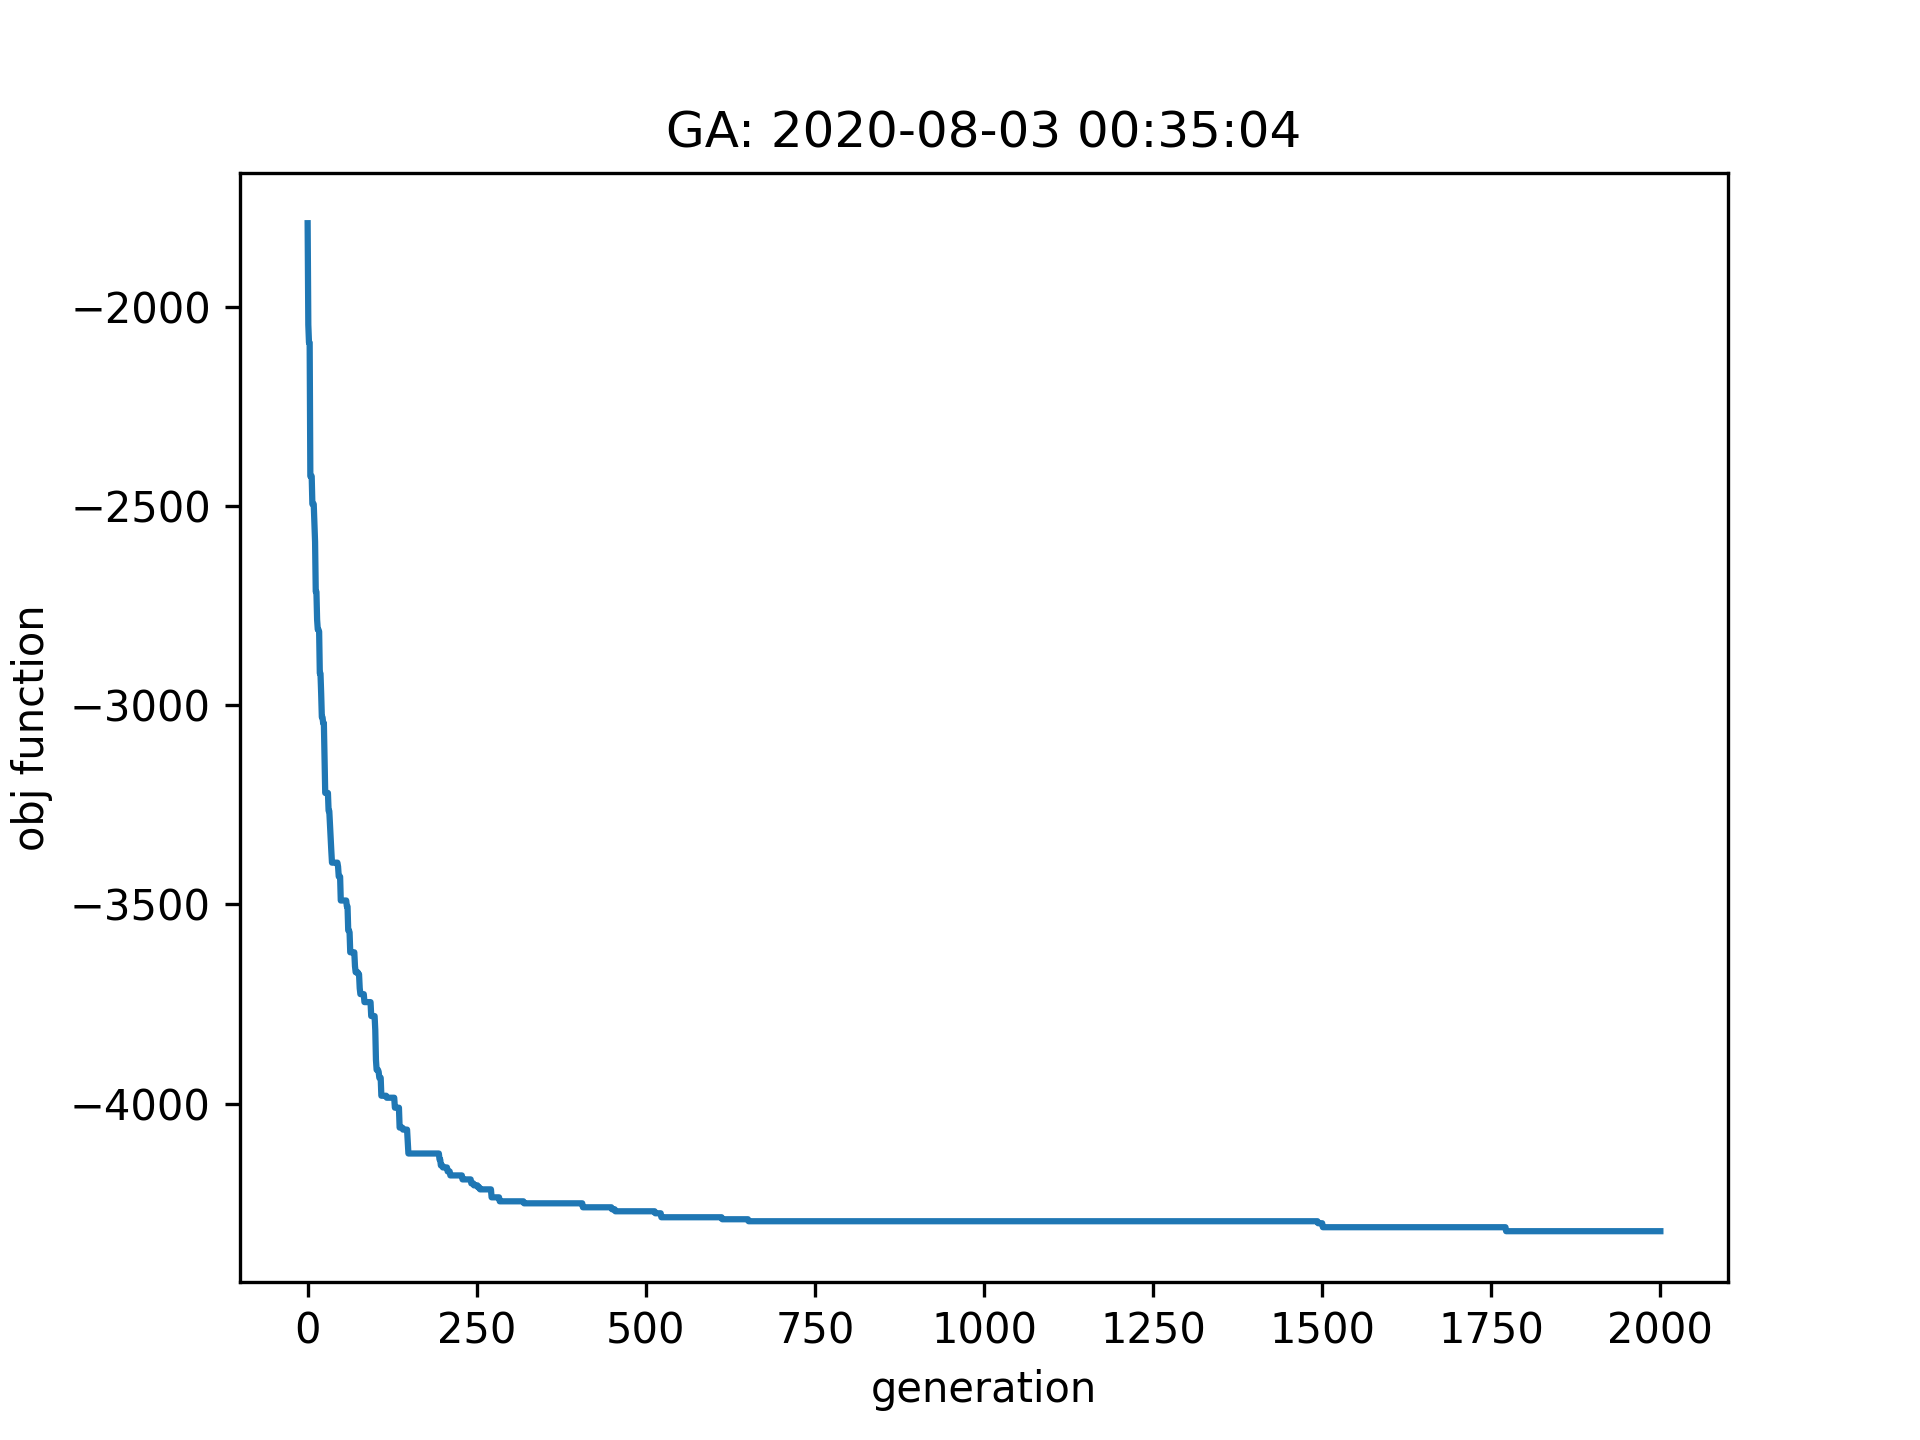
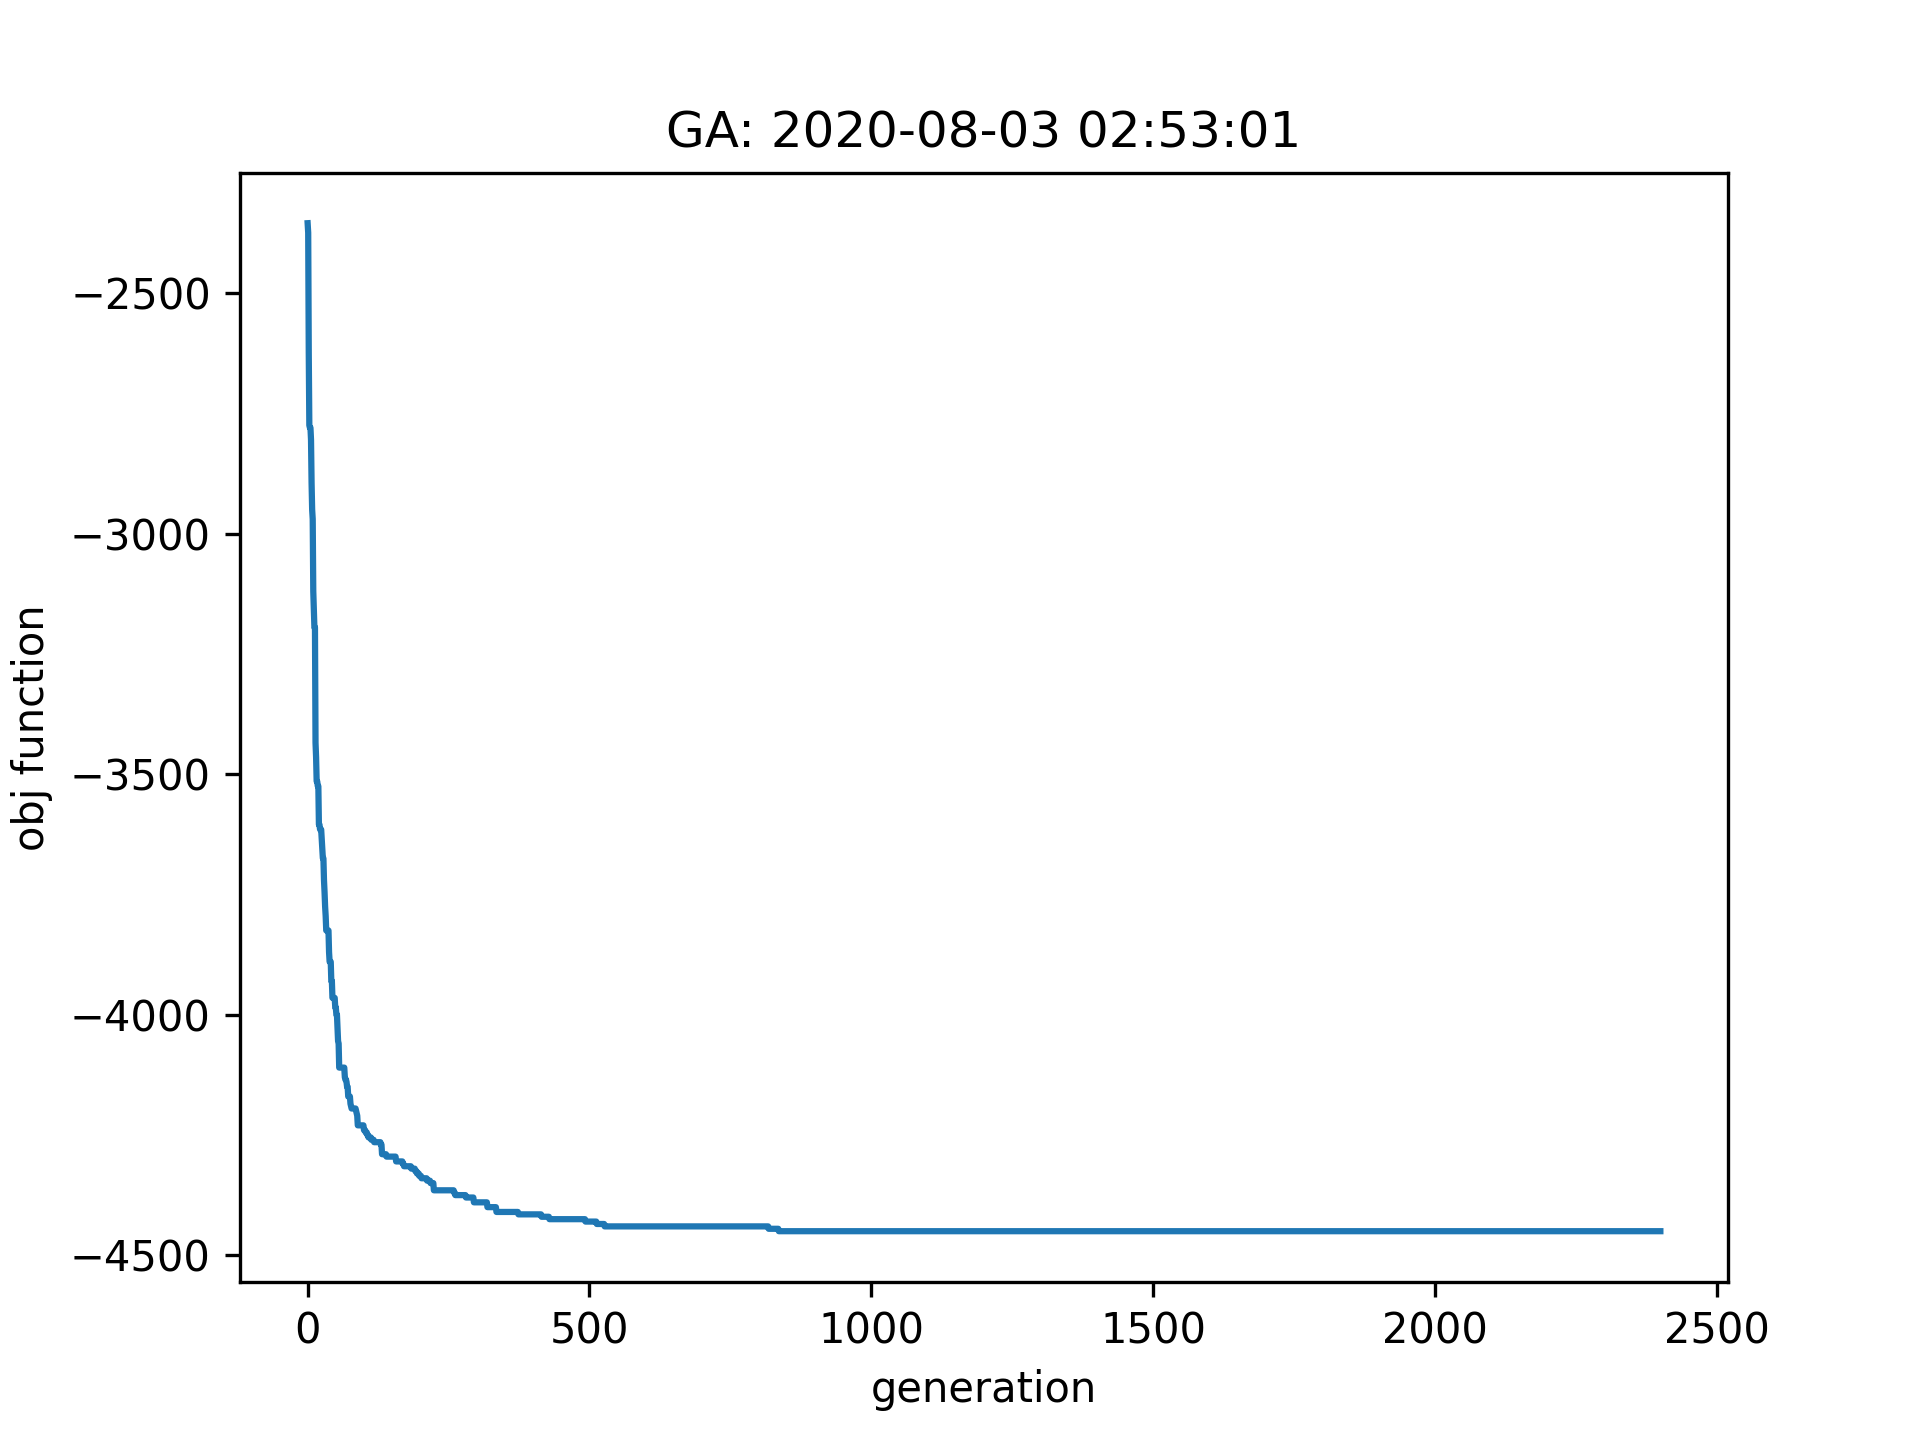
Added projectID conversion function

diff --git a/src/run_ga.py b/src/run_ga.py
@@ -9,13 +9,15 @@ import time # time the algorithm
 import pandas as pd # loads csv
 from score import points_ch, points_gs
 import load_csv as lc
+from convert_id import fix
 
 # defs
 def objf(soln): # objective function
+    soln = fix(soln)
     y = 0
     y = points_ch(soln) # choices
     y += points_gs(soln) # group size
-
+    
     # timing
     # if time.time()-t0 > max_run_time:
     #     print('stop me') # TODO break here
@@ -33,8 +35,9 @@ num_choices = lc.num_choices
 max_run_time = lc.max_run_time
 
 # hyperparameters
-num_iterations = 2000
-var_bound=np.array([[1,num_projects]]*num_students) # solution shape
+num_iterations = 2400
+#lc.projectIDs  = [1, 2, 4] => num_projects = len(projectIDs)
+var_bound = np.array([[1,num_projects]]*num_students) # solution shape
 ga_params = {'max_num_iteration': num_iterations,\
                    'population_size':100,\
                    'mutation_probability':0.02,\

diff --git a/src/convert_id.py b/src/convert_id.py
@@ -1,0 +1,31 @@
+# converts projectIDs into sequential numbers
+
+
+ # input    = [4 2 3 3 1 4 2]
+ # want out = [6 2 4 4 1 6 2]
+#projectIDs  = [1, 2, 4, 6]
+
+import load_csv as lc
+
+'''  Genetic Algorithm Converter for Python
+    
+    Converts genetic algorithm output to actual project numbers
+    
+    Implementation and output:
+        
+        methods:
+                fix(): convert genetic algoritm output to project numbers from projectIDs
+                
+        outputs:
+                new_id: the solution with the fixed ID's
+    '''
+
+def fix(soln):
+    new_id = [0]* len(soln)
+    for i in range(len(soln)):
+        new_id[i] = lc.projectIDs[int(soln[i])-1]
+    return new_id
+
+#nyan = fix()
+
+#print(nyan)
